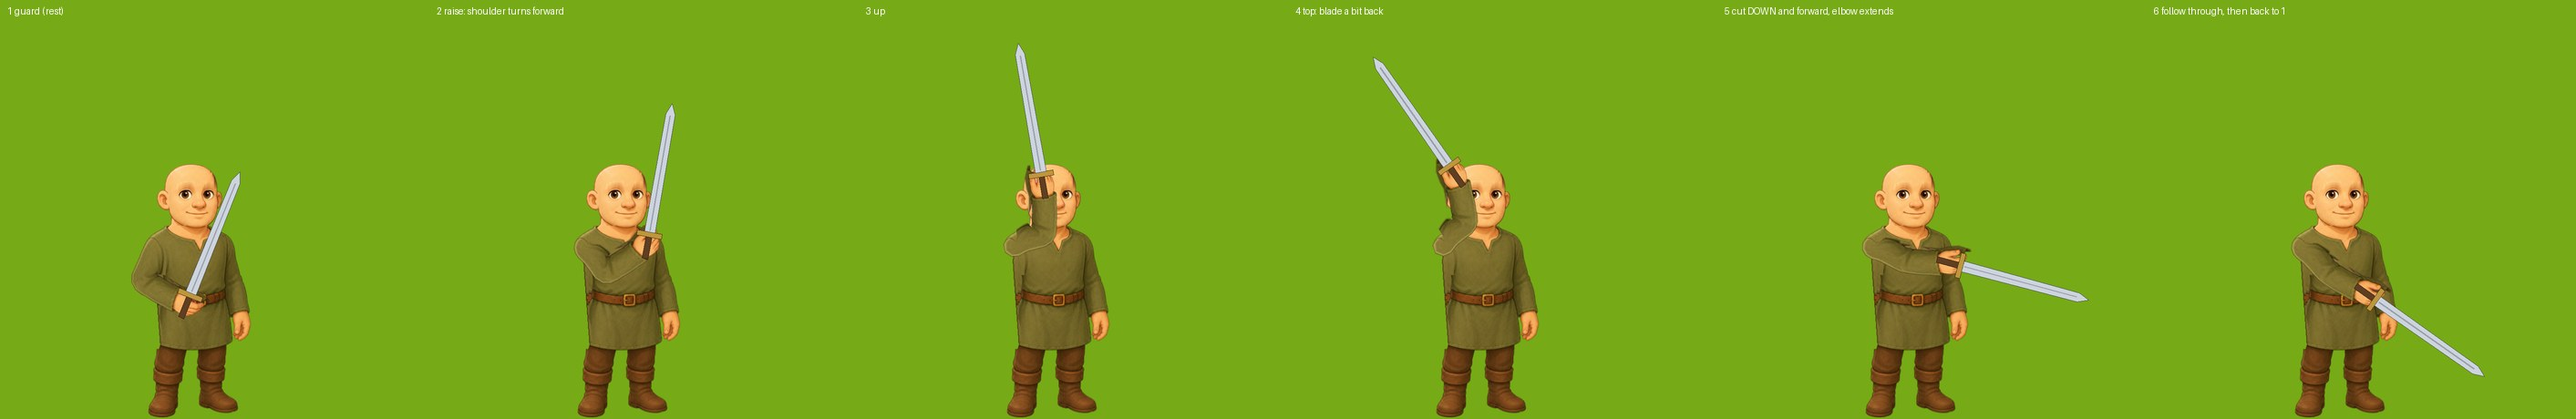
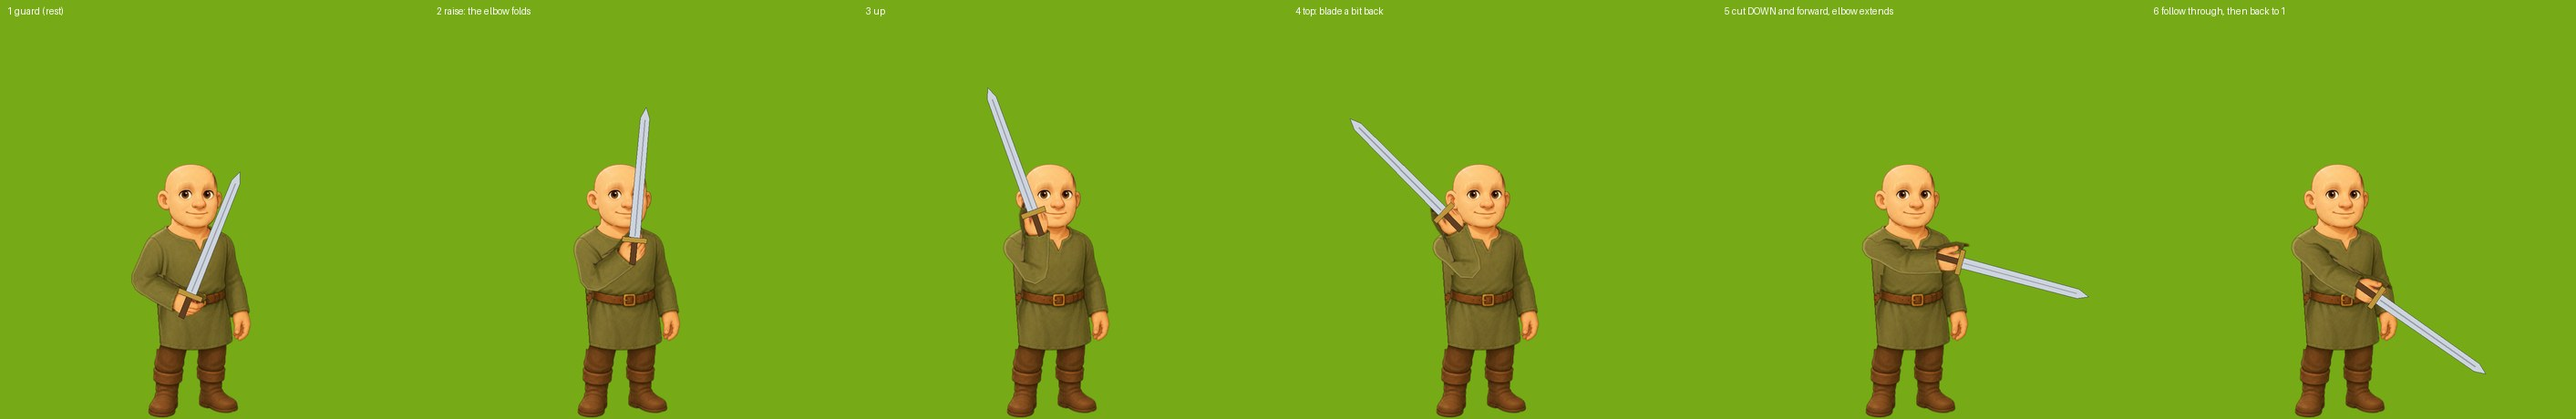
Equipment plan: the raise is led by the elbow, the shoulder turns only part way
Owner: the shoulder pivoted too far in the raise and the joint looked wrong. The elbow now folds
the fist up beside the jaw; the shoulder's larger turn comes only in the forward cut. The probe
image and its angles are updated. Plan only, nothing built.

diff --git a/docs/equipment-plan.md b/docs/equipment-plan.md
@@ -130,18 +130,20 @@ the dungeon and the FTUE opening).
 Three motions, all with the near arm (owner 2026-11-13, replacing v2's first idea of swinging the
 arm back on its own side):
 
-1. **Raise.** The shoulder turns the arm FORWARD and up (counter-clockwise on a figure facing
-   right), so the sword rises in front of the body, goes up over the head and at the top tips a
-   little back.
-2. **Cut down and forward.** The shoulder brings the arm down in front while the elbow straightens,
+1. **Raise.** The ELBOW does most of it: it folds, bringing the fist up from the belt to beside the
+   jaw, while the shoulder turns the upper arm only part of the way forward (counter-clockwise on a
+   figure facing right). The sword rises in front of the body and at the top tips a little back.
+   (Owner: with the shoulder doing the raise it pivoted too far and the joint looked wrong.)
+2. **Cut down and forward.** The elbow straightens and the shoulder carries the arm out in front,
    so the hand reaches forward toward the target and the blade comes down onto it.
 3. **Reset** to the guard.
 
 ![swing](art/equipment/probe-swing.jpg)
 
-(Held poses of the test rig with a stand-in sword, not an animation yet. To tune in P1: for a
-moment at the top the forearm passes in front of the face; keeping the elbow lower, or leaning the
-body back in the raise, takes it beside the head.)
+(Held poses of the test rig with a stand-in sword, not an animation yet. As shoulder and elbow
+angles in radians: guard 0.15, -1.25; raise -0.45, -1.8; up -0.85, -2.3; top -1.05, -2.5; cut
+-1.3, -0.35; follow-through -1.0, -0.15. At the top the fist sits beside the jaw, not over the
+face.)
 
 Families, chosen by the weapon's `swing`, all on that pattern:
 
